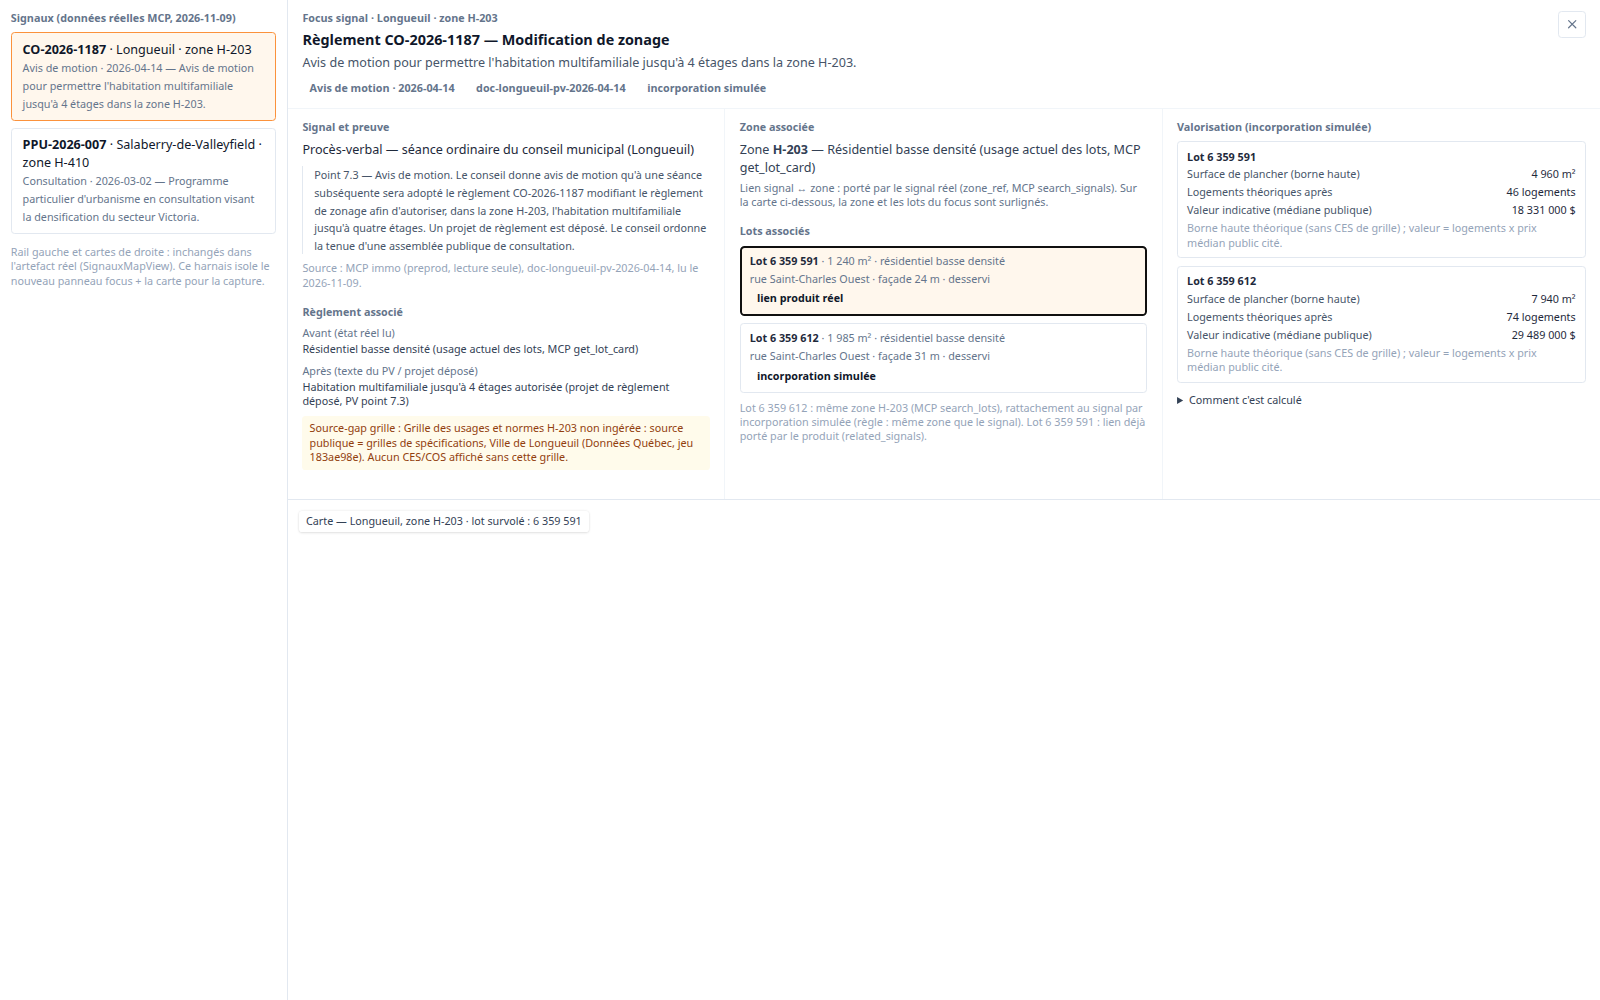
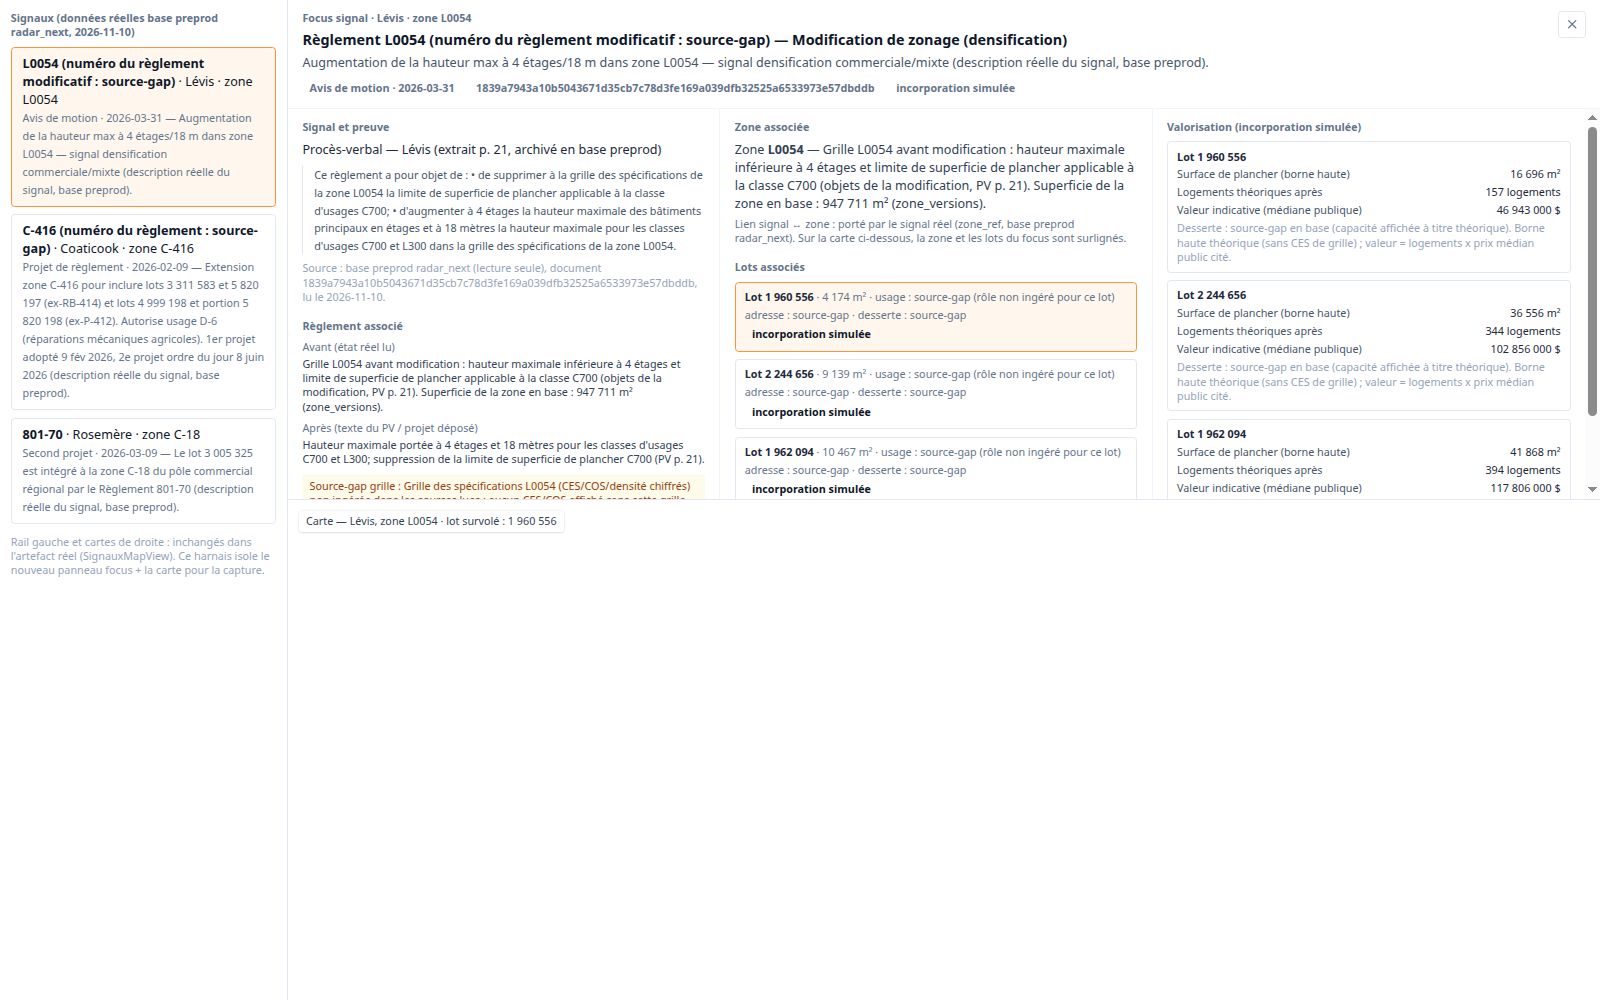
fix(artifact): replace fictitious focus-signal data with real preprod cases (Levis L0054, Coaticook C-416, Rosemere 801-70)

diff --git a/ui/src/lib/maps/focus-signal-cases.ts b/ui/src/lib/maps/focus-signal-cases.ts
@@ -1,19 +1,18 @@
 /**
- * Focus-signal artifact cases — REAL data only (owner amendment 2026-11-09).
+ * Focus-signal artifact cases — v2 REAL data (rework 2026-11-10).
  *
- * Every value below was read on 2026-11-09 from a real source, cited inline:
- * - immo MCP (preprod read-only): `search_signals`, `search_lots`,
- *   `get_lot_card`, `read_document_excerpt` (procès-verbaux).
- * - Public market indicator: Centris community profile, Le Vieux-Longueuil
- *   (median condominium price), consulted 2026-11-09.
+ * Provenance (each value re-checkable, see LANE-REPORT.md v2):
+ * - Signals, excerpts, zones, lots, areas: preprod DB `radar_next`
+ *   (read-only, SET default_transaction_read_only=on) on 2026-11-10:
+ *   graph_nodes (Signal), zone_versions / lot_versions (PostGIS
+ *   ST_Area / ST_Intersects). The immo MCP of this lane returned
+ *   fixtures/empty for these cities, so it is NOT used as a source here.
+ * - Market price: Centris community profile (public, cited inline).
  *
- * What is "simulated" is ONLY the incorporation: the product does not yet
- * persist the link signal <-> zone <-> lot <-> bylaw evolution, nor the
- * application of a real bylaw to a real lot. Each such link/calculation is
- * flagged `incorporation: true` in the UI ("incorporation simulée") with
- * its rule. No lot, area, use, stage or price is invented. Where a real
- * input is missing (zoning grid CES/COS, Valleyfield price), the case
- * carries an explicit source-gap instead of a fabricated number.
+ * "Simulated" is ONLY the incorporation: signal<->lot link by spatial
+ * intersection where the PV does not name the lot, and application of a
+ * real bylaw parameter (authorised storeys read in the PV) to a real
+ * lot. Missing real inputs stay explicit source-gaps, never numbers.
  */
 
 export interface FocusLot {
@@ -22,8 +21,9 @@ export interface FocusLot {
   frontageM: number | null;
   addressStreet: string | null;
   usage: string;
-  serviced: boolean;
-  /** MCP `get_lot_card.related_signals` already links this lot — real link. */
+  /** true/false read from a source; null = source-gap (never guessed). */
+  serviced: boolean | null;
+  /** Lot named by the real PV text (real link) vs spatial incorporation. */
   linkedByProduct: boolean;
 }
 
@@ -42,113 +42,127 @@ export interface FocusCase {
   zoneCode: string;
   zoneUseBefore: string;
   bylawEvolutionAfter: string;
-  /** Zoning-grid parameters (CES/COS/density): null = source-gap, never invented. */
   gridBeforeAfter: string | null;
   gridSourceGap: string | null;
   lots: FocusLot[];
-  /** Public median condo price (CAD) used by the valuation; null = source-gap. */
   medianCondoPrice: number | null;
   medianPriceSource: string | null;
-  /** Authorised storeys after the change, read from the real PV text. */
   storeysAfter: number | null;
   valuationNote: string;
+  /** Real centroid (zone or lot, DB geometry) for the harness map. */
+  mapCenter: [number, number];
 }
 
 export const FOCUS_CASES: FocusCase[] = [
   {
-    signalId: "sig-longueuil-001",
-    citySlug: "longueuil",
-    cityLabel: "Longueuil",
-    signalType: "Modification de zonage",
+    signalId: "signal-levis-densification-L0054",
+    citySlug: "levis",
+    cityLabel: "Lévis",
+    signalType: "Modification de zonage (densification)",
     stage: "Avis de motion",
-    stageDate: "2026-04-14",
-    bylaw: "CO-2026-1187",
+    stageDate: "2026-03-31",
+    bylaw: "L0054 (numéro du règlement modificatif : source-gap)",
     summary:
-      "Avis de motion pour permettre l'habitation multifamiliale jusqu'à 4 étages dans la zone H-203.",
-    documentId: "doc-longueuil-pv-2026-04-14",
-    documentTitle: "Procès-verbal — séance ordinaire du conseil municipal (Longueuil)",
+      "Augmentation de la hauteur max à 4 étages/18 m dans zone L0054 — signal densification commerciale/mixte (description réelle du signal, base preprod).",
[1 lines of base64/hex data omitted]
+    documentTitle: "Procès-verbal — Lévis (extrait p. 21, archivé en base preprod)",
     evidenceExcerpt:
-      "Point 7.3 — Avis de motion. Le conseil donne avis de motion qu'à une séance subséquente sera adopté le règlement CO-2026-1187 modifiant le règlement de zonage afin d'autoriser, dans la zone H-203, l'habitation multifamiliale jusqu'à quatre étages. Un projet de règlement est déposé. Le conseil ordonne la tenue d'une assemblée publique de consultation.",
-    zoneCode: "H-203",
-    zoneUseBefore: "Résidentiel basse densité (usage actuel des lots, MCP get_lot_card)",
+      "Ce règlement a pour objet de : • de supprimer à la grille des spécifications de la zone L0054 la limite de superficie de plancher applicable à la classe d'usages C700; • d'augmenter à 4 étages la hauteur maximale des bâtiments principaux en étages et à 18 mètres la hauteur maximale pour les classes d'usages C700 et L300 dans la grille des spécifications de la zone L0054.",
+    zoneCode: "L0054",
+    zoneUseBefore:
+      "Grille L0054 avant modification : hauteur maximale inférieure à 4 étages et limite de superficie de plancher applicable à la classe C700 (objets de la modification, PV p. 21). Superficie de la zone en base : 947 711 m² (zone_versions).",
     bylawEvolutionAfter:
-      "Habitation multifamiliale jusqu'à 4 étages autorisée (projet de règlement déposé, PV point 7.3)",
+      "Hauteur maximale portée à 4 étages et 18 mètres pour les classes d'usages C700 et L300; suppression de la limite de superficie de plancher C700 (PV p. 21).",
     gridBeforeAfter: null,
     gridSourceGap:
-      "Grille des usages et normes H-203 non ingérée : source publique = grilles de spécifications, Ville de Longueuil (Données Québec, jeu 183ae98e). Aucun CES/COS affiché sans cette grille.",
+      "Grille des spécifications L0054 (CES/COS/densité chiffrés) non ingérée dans les sources lues : aucun CES/COS affiché sans cette grille.",
     lots: [
-      {
-        noLot: "6 359 591",
-        areaM2: 1240,
-        frontageM: 24,
-        addressStreet: "rue Saint-Charles Ouest",
-        usage: "résidentiel basse densité",
-        serviced: true,
-        linkedByProduct: true,
-      },
-      {
-        noLot: "6 359 612",
-        areaM2: 1985,
-        frontageM: 31,
-        addressStreet: "rue Saint-Charles Ouest",
-        usage: "résidentiel basse densité",
-        serviced: true,
-        linkedByProduct: false,
-      },
+      { noLot: "1 960 556", areaM2: 4174, frontageM: null, addressStreet: null, usage: "usage : source-gap (rôle non ingéré pour ce lot)", serviced: null, linkedByProduct: false },
+      { noLot: "2 244 656", areaM2: 9139, frontageM: null, addressStreet: null, usage: "usage : source-gap (rôle non ingéré pour ce lot)", serviced: null, linkedByProduct: false },
+      { noLot: "1 962 094", areaM2: 10467, frontageM: null, addressStreet: null, usage: "usage : source-gap (rôle non ingéré pour ce lot)", serviced: null, linkedByProduct: false },
     ],
-    medianCondoPrice: 398500,
+    medianCondoPrice: 299000,
     medianPriceSource:
-      "Centris — profil de quartier Le Vieux-Longueuil, prix médian condominium 398 500 $ (consulté le 2026-11-09, centris.ca/en/tools/community-profile/montreal-south-shore/longueuil-le-vieux-longueuil)",
+      "Centris — profil de communauté Lévis (Desjardins), prix médian condominium 299 000 $ (consulté le 2026-11-10, centris.ca/en/tools/community-profile/province-of-quebec/levis-desjardins)",
     storeysAfter: 4,
     valuationNote:
-      "Lot 6 359 612 : même zone H-203 (MCP search_lots), rattachement au signal par incorporation simulée (règle : même zone que le signal). Lot 6 359 591 : lien déjà porté par le produit (related_signals).",
+      "Lots réels intersectant la zone L0054 (PostGIS ST_Intersects, lot_versions x zone_versions) : rattachement au signal par incorporation simulée (règle : intersection spatiale avec la zone du signal). Desserte et rôle : source-gap en base pour ces lots.",
+    mapCenter: [-71.3215, 46.7245],
   },
   {
-    signalId: "sig-valleyfield-001",
-    citySlug: "valleyfield",
-    cityLabel: "Salaberry-de-Valleyfield",
-    signalType: "Plan d'aménagement (PPU)",
-    stage: "Consultation",
-    stageDate: "2026-03-02",
-    bylaw: "PPU-2026-007",
+    signalId: "signal-coaticook-rezonage-c416",
+    citySlug: "coaticook",
+    cityLabel: "Coaticook",
+    signalType: "Extension de zone commerciale",
+    stage: "Projet de règlement",
+    stageDate: "2026-02-09",
+    bylaw: "C-416 (numéro du règlement : source-gap)",
     summary:
-      "Programme particulier d'urbanisme en consultation visant la densification du secteur Victoria.",
-    documentId: "doc-valleyfield-pv-2026-03-02",
-    documentTitle: "Procès-verbal — assemblée de consultation publique (Valleyfield)",
+      "Extension zone C-416 pour inclure lots 3 311 583 et 5 820 197 (ex-RB-414) et lots 4 999 198 et portion 5 820 198 (ex-P-412). Autorise usage D-6 (réparations mécaniques agricoles). 1er projet adopté 9 fév 2026, 2e projet ordre du jour 8 juin 2026 (description réelle du signal, base preprod).",
[1 lines of base64/hex data omitted]
+    documentTitle: "Procès-verbal — Coaticook, PV20260209 (extrait p. 23, archivé en base preprod)",
     evidenceExcerpt:
-      "Assemblée de consultation publique relative au programme particulier d'urbanisme PPU-2026-007. Le projet vise la densification du secteur Victoria. Les personnes présentes sont invitées à formuler des commentaires. Le calendrier prévoit une adoption envisagée à l'automne, conditionnelle au prolongement des services municipaux.",
-    zoneCode: "H-410",
-    zoneUseBefore: "Résidentiel moyenne densité (usage actuel du lot, MCP get_lot_card)",
+      "L'objet du présent règlement est d'agrandir la zone C-416 de l'annexe B du Règlement de zonage afin d'y inclure : les lots numéro 3 311 583 et 5 820 197, actuellement situés dans la zone RB-414; le lot numéro 4 999 198, faisant partie de la zone P-412 ; ainsi qu'une portion du lot numéro 5 820 198, également comprise dans la zone P-412",
+    zoneCode: "C-416",
+    zoneUseBefore:
+      "Lots visés situés en zones RB-414 (49 104 m² en base) et P-412 (79 058 m² en base), superficies zone_versions.",
     bylawEvolutionAfter:
-      "Densification du secteur Victoria envisagée à l'automne, conditionnelle au prolongement des services municipaux (PV de consultation)",
+      "Agrandissement de la zone C-416 (16 851 m² en base avant extension) aux lots cités au PV; usage D-6 (réparations mécaniques agricoles) autorisé (description du signal).",
     gridBeforeAfter: null,
     gridSourceGap:
-      "Grille H-410 et paramètres du PPU non publiés dans les sources lues : aucun paramètre chiffré affiché.",
+      "Grille des usages et normes C-416 (hauteurs/CES/COS) non ingérée : aucun gabarit chiffré affiché, capacité résidentielle non calculée pour un usage D-6.",
     lots: [
-      {
-        noLot: "5 870 223",
-        areaM2: 3120,
-        frontageM: 42,
-        addressStreet: "rue Victoria",
-        usage: "résidentiel moyenne densité",
-        serviced: false,
-        linkedByProduct: true,
-      },
+      { noLot: "3 311 583", areaM2: 1115, frontageM: null, addressStreet: null, usage: "ex-zone RB-414 (PV p. 23); rôle : source-gap", serviced: null, linkedByProduct: true },
+      { noLot: "5 820 197", areaM2: 508, frontageM: null, addressStreet: null, usage: "ex-zone RB-414 (PV p. 23); rôle : source-gap", serviced: null, linkedByProduct: true },
+      { noLot: "4 999 198", areaM2: 2111, frontageM: null, addressStreet: null, usage: "ex-zone P-412 (PV p. 23); rôle : source-gap", serviced: null, linkedByProduct: true },
+      { noLot: "5 820 198", areaM2: 1136, frontageM: null, addressStreet: null, usage: "portion visée, ex-zone P-412 (PV p. 23); rôle : source-gap", serviced: null, linkedByProduct: true },
     ],
     medianCondoPrice: null,
     medianPriceSource: null,
     storeysAfter: null,
     valuationNote:
-      "Lot non desservi (MCP) et adoption conditionnelle aux services : capacité et valeur restent en source-gap, aucun montant affiché.",
+      "Lots nommés dans le texte réel du PV (lien réel, pas une incorporation). Aucun gabarit résidentiel au PV : valorisation résidentielle en source-gap, superficies réelles affichées seules.",
+    mapCenter: [-71.8035, 45.1263],
+  },
+  {
+    signalId: "signal-rosemere-rezonage-lot-3005325-2026",
+    citySlug: "rosemere",
+    cityLabel: "Rosemère",
+    signalType: "Modification de zonage (règlement 801-70)",
+    stage: "Second projet",
+    stageDate: "2026-03-09",
+    bylaw: "801-70",
+    summary:
+      "Le lot 3 005 325 est intégré à la zone C-18 du pôle commercial régional par le Règlement 801-70 (description réelle du signal, base preprod).",
[1 lines of base64/hex data omitted]
+    documentTitle: "Procès-verbal — Rosemère, séance 2026-03-09 (extrait p. 5, archivé en base preprod)",
+    evidenceExcerpt:
+      "D'ADOPTER le second projet de Règlement 801-70 modifiant le règlement 801 - Zonage, afin de modifier des dispositions ainsi qu'inclure le lot 3 005 325 à la zone C-18 sans changement. ADOPTÉE À L'UNANIMITÉ.",
+    zoneCode: "C-18",
+    zoneUseBefore:
+      "Zone C-18 — Rosemère (pôle commercial régional, nœud graphe zone-rosemere-C-18). Géométrie de la zone absente de zone_versions : source-gap géométrie.",
+    bylawEvolutionAfter:
+      "Inclusion du lot 3 005 325 à la zone C-18 « sans changement » des dispositions (PV p. 5) : aucun nouveau gabarit créé par ce règlement.",
+    gridBeforeAfter: null,
+    gridSourceGap:
+      "Géométrie C-18 et grille 801 (CES/COS/hauteurs) non présentes dans les tables lues : aucun paramètre chiffré affiché.",
+    lots: [
+      { noLot: "3 005 325", areaM2: 4238, frontageM: null, addressStreet: null, usage: "pôle commercial régional (graphe); rôle : source-gap", serviced: null, linkedByProduct: true },
+    ],
+    medianCondoPrice: null,
+    medianPriceSource: null,
+    storeysAfter: null,
+    valuationNote:
+      "Lot nommé au PV et porté par le signal (no_lot réel). Règlement « sans changement » de gabarit : aucune capacité additionnelle calculée, valeur en source-gap.",
+    mapCenter: [-73.8112, 45.6191],
   },
 ];
 
-/** Valuation assumptions — calculation hypotheses, displayed in the UI. */
 export const VALUATION_ASSUMPTIONS = {
   netEfficiency: 0.8,
   avgUnitM2: 85,
   label:
-    "Hypothèses de calcul (incorporation simulée, inspirée LotAI : capacité théorique = superficie constructible × gabarit autorisé) : rendement net 80 % de la surface de plancher brute, logement moyen 85 m². Entrées réelles : superficie du lot (MCP), étages autorisés après changement (PV), prix médian public (Centris).",
+    "Hypothèses de calcul (incorporation simulée, inspirée LotAI : capacité théorique = superficie constructible × gabarit autorisé) : rendement net 80 % de la surface de plancher brute, logement moyen 85 m². Entrées réelles : superficie du lot (PostGIS, lot_versions), étages autorisés après changement (texte du PV), prix médian public cité (Centris).",
 } as const;
 
 export interface LotValuation {
@@ -159,32 +173,13 @@ export interface LotValuation {
   reason: string;
 }
 
-/**
- * Theoretical capacity of ONE real lot under the real bylaw change.
- * Returns a source-gap (no number) when a real input is missing.
- */
 export function valuateLot(c: FocusCase, lot: FocusLot): LotValuation {
-  if (!lot.serviced) {
-    return {
-      grossFloorM2: null,
-      unitsAfter: null,
-      indicativeValue: null,
-      status: "source-gap",
-      reason: "Lot non desservi (donnée MCP) : capacité non calculée.",
-    };
+  if (lot.serviced === false) {
+    return { grossFloorM2: null, unitsAfter: null, indicativeValue: null, status: "source-gap", reason: "Lot non desservi selon la source lue : capacité non calculée." };
   }
   if (c.storeysAfter === null) {
-    return {
-      grossFloorM2: null,
-      unitsAfter: null,
-      indicativeValue: null,
-      status: "source-gap",
-      reason: "Gabarit après changement absent des sources lues : capacité non calculée.",
-    };
+    return { grossFloorM2: null, unitsAfter: null, indicativeValue: null, status: "source-gap", reason: "Gabarit après changement absent des sources lues : capacité non calculée." };
   }
-  // Footprint proxy without an ingested CES: one storey plate is capped by
-  // the lot itself; gross floor = area x storeys is an UPPER bound, labelled
-  // as such. Net units use the displayed assumptions.
   const gross = lot.areaM2 * c.storeysAfter;
   const units = Math.floor((gross * VALUATION_ASSUMPTIONS.netEfficiency) / VALUATION_ASSUMPTIONS.avgUnitM2);
   return {
@@ -193,9 +188,10 @@ export function valuateLot(c: FocusCase, lot: FocusLot): LotValuation {
     indicativeValue: c.medianCondoPrice !== null ? units * c.medianCondoPrice : null,
     status: "calculee",
     reason:
-      c.medianCondoPrice !== null
+      (lot.serviced === null ? "Desserte : source-gap en base (capacité affichée à titre théorique). " : "") +
+      (c.medianCondoPrice !== null
         ? "Borne haute théorique (sans CES de grille) ; valeur = logements x prix médian public cité."
-        : "Capacité calculée ; valeur en source-gap (aucun prix public relevé pour cette ville).",
+        : "Capacité calculée ; valeur en source-gap (aucun prix public relevé pour cette ville)."),
   };
 }
 

diff --git a/ui/src/lib/components/maps/SignalFocusPanel.svelte b/ui/src/lib/components/maps/SignalFocusPanel.svelte
@@ -66,7 +66,7 @@
         {focusCase.evidenceExcerpt}
       </blockquote>
       <p class="m-0 mt-2 text-xs text-slate-400">
-        Source : MCP immo (preprod, lecture seule), {focusCase.documentId}, lu le 2026-11-09.
+        Source : base preprod radar_next (lecture seule), document {focusCase.documentId}, lu le 2026-11-10.
       </p>
 
       <h3 class="m-0 mt-4 text-xs font-semibold text-slate-500">Règlement associé</h3>
@@ -93,7 +93,7 @@
         Zone <strong>{focusCase.zoneCode}</strong> — {focusCase.zoneUseBefore}
       </p>
       <p class="m-0 mt-1 text-xs text-slate-500">
-        Lien signal ↔ zone : porté par le signal réel (zone_ref, MCP search_signals).
+        Lien signal ↔ zone : porté par le signal réel (zone_ref, base preprod radar_next).
         Sur la carte ci-dessous, la zone et les lots du focus sont surlignés.
       </p>
 
@@ -117,11 +117,11 @@
               <span class="mt-1 block text-slate-500">
                 {lot.addressStreet ?? "adresse : source-gap"}
                 {lot.frontageM !== null ? ` · façade ${lot.frontageM} m` : ""}
-                · {lot.serviced ? "desservi" : "non desservi"}
+                · {lot.serviced === null ? "desserte : source-gap" : lot.serviced ? "desservi" : "non desservi"}
               </span>
               <span class="mt-1 block">
                 {#if lot.linkedByProduct}
-                  <Badge tone="success">lien produit réel</Badge>
+                  <Badge tone="success">lien réel (texte du PV)</Badge>
                 {:else}
                   <Badge tone="warning">incorporation simulée</Badge>
                 {/if}

diff --git a/ui/e2e-qa/harness/FocusSignalHarness.svelte b/ui/e2e-qa/harness/FocusSignalHarness.svelte
@@ -24,7 +24,7 @@
         },
         layers: [{ id: "osm", type: "raster", source: "osm" }],
       },
-      center: [-73.516, 45.531],
+      center: [-71.3215, 46.7245],
       zoom: 13,
     });
     return () => map.remove();
@@ -33,7 +33,7 @@
 
 <div class="flex h-screen bg-white text-slate-900">
   <aside class="w-80 shrink-0 overflow-y-auto border-r border-slate-200 p-3">
-    <p class="m-0 text-xs font-semibold text-slate-500">Signaux (données réelles MCP, 2026-11-09)</p>
+    <p class="m-0 text-xs font-semibold text-slate-500">Signaux (données réelles base preprod radar_next, 2026-11-10)</p>
     {#each FOCUS_CASES as c (c.signalId)}
       <button
         type="button"
